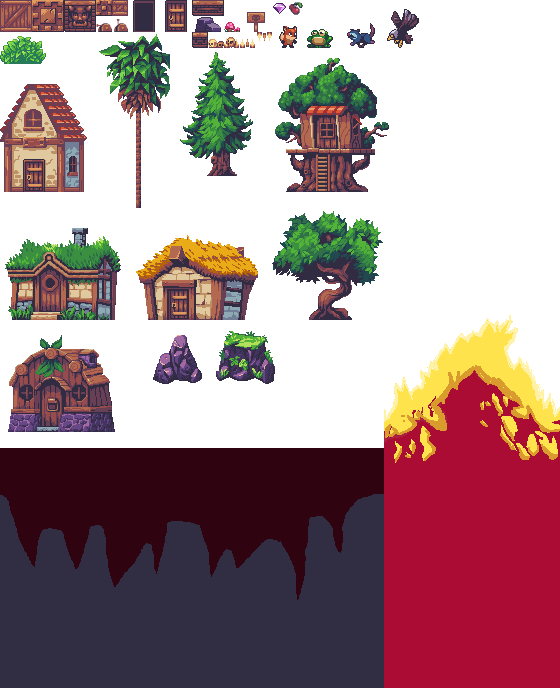
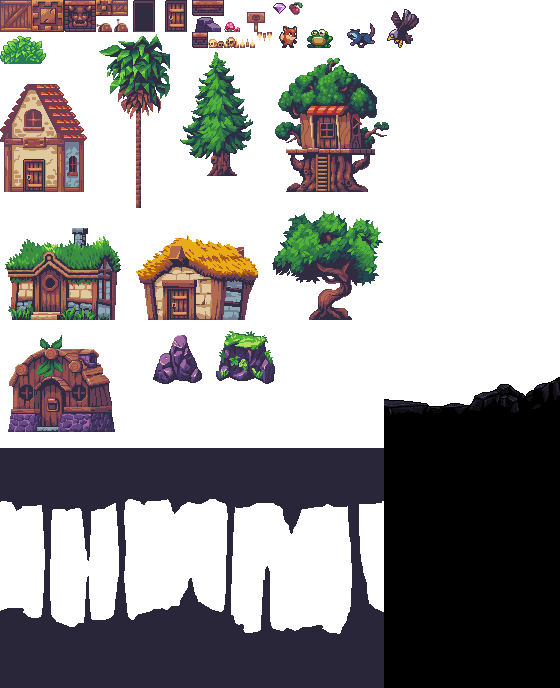
Adicinando o style sheet do player e modificando o mapa

diff --git a/data/collisions.js b/data/collisions.js
@@ -1,38 +1,38 @@
 const collisions = [
-  [0,0,0,0,0,0,0,0,0,0,0,0,0,0,0,0,0,0,0,0,0,0,0,0,0,0,0,0,0,0,0,0,0,0,0,0,0,0,0,0,0,0,0,0,0,0,0,0,0,0,0,0,0,0,0,0,0,0,0,0,0,0,0,0,0,0,0,0,0,0,0,0,0,0,0,0,0,0,0,0,0,0,0,0,0,0,0,0,0,0,0,0,0,0,0,0,0,0,0,0,0,0,0,0,0,0,0,0,0,0,0,0,0,0,0,0,0,0,0,0,0,1,0,0,0,0,0,0,0,0],
-  [0,0,0,0,0,0,0,0,0,0,0,0,0,0,0,0,0,0,0,0,0,0,0,0,0,0,0,0,0,0,0,0,0,0,0,0,0,0,0,0,0,0,0,0,0,0,0,0,0,0,0,0,0,0,0,0,0,0,0,0,0,0,0,0,0,0,0,0,0,0,0,0,0,0,0,0,0,0,0,0,0,0,0,0,0,0,0,0,0,0,0,0,0,0,0,0,0,0,0,0,0,0,0,0,0,0,0,0,0,0,0,0,0,0,0,0,0,0,0,0,0,1,0,0,0,0,0,0,0,0],
-  [0,0,0,0,0,0,0,0,0,0,0,0,0,0,0,0,0,0,0,0,0,0,0,0,0,0,0,0,0,0,0,0,0,0,0,0,0,0,0,0,0,0,0,0,0,0,0,0,0,0,0,0,0,0,0,0,0,0,0,0,0,0,0,0,0,0,0,0,0,0,0,0,0,0,0,0,0,0,0,0,0,0,0,0,0,0,0,0,0,0,0,0,0,0,0,0,0,0,0,0,0,0,0,0,0,0,0,0,0,0,0,0,0,0,0,0,0,0,0,0,0,1,0,0,0,0,0,0,0,0],
-  [0,0,0,0,0,0,0,0,0,0,0,0,0,0,0,0,0,0,0,0,0,0,0,0,0,0,0,0,0,0,0,0,0,0,0,0,0,0,0,0,0,0,0,0,0,0,0,0,0,0,0,0,0,0,0,0,0,0,0,0,0,0,0,0,0,0,0,0,0,0,0,0,0,0,0,0,0,0,0,0,0,0,0,0,0,0,0,0,0,0,0,0,0,0,0,0,0,0,0,0,0,0,0,0,0,0,0,0,0,0,0,0,0,0,0,0,0,0,0,0,0,1,0,0,0,0,0,0,0,0],
-  [0,0,0,0,0,0,0,0,0,0,0,0,0,0,0,0,0,0,0,0,0,0,0,0,0,0,0,0,0,0,0,0,0,0,0,0,0,0,0,0,0,0,0,0,0,0,0,0,0,0,0,0,0,0,0,0,0,0,0,0,0,0,0,0,0,0,0,0,0,0,0,0,0,0,0,0,0,0,0,0,0,0,0,0,0,0,0,0,0,0,0,0,0,0,0,0,0,0,0,0,0,0,0,0,0,0,0,0,0,0,0,0,0,0,0,0,0,0,0,0,0,1,0,0,0,0,0,0,0,0],
-  [0,0,0,0,0,0,0,0,0,0,0,0,0,0,0,0,0,0,0,0,0,0,0,0,0,0,0,0,0,0,0,0,0,0,0,0,0,0,0,0,0,0,0,0,0,0,0,0,0,0,0,0,0,0,0,0,0,0,0,0,0,0,1,1,1,1,1,1,0,0,0,0,0,0,0,0,0,0,0,0,0,0,0,0,0,0,0,0,0,0,0,0,0,0,0,0,0,0,0,0,0,0,0,0,0,0,0,0,0,0,0,0,0,0,0,0,0,0,0,0,0,1,0,0,0,0,0,0,0,0],
-  [0,0,0,0,0,0,0,0,0,0,0,0,0,0,0,0,0,0,0,0,0,0,0,0,0,0,0,0,0,0,0,0,0,0,0,0,0,0,0,0,0,0,0,0,0,0,0,0,0,0,0,0,0,0,0,0,0,0,0,0,0,0,0,0,0,0,0,0,0,0,0,0,0,2,2,2,1,1,1,1,1,1,0,0,0,0,0,0,0,0,0,0,0,0,0,0,0,0,0,0,0,0,0,0,0,0,0,0,0,0,0,0,0,0,0,0,0,0,0,0,0,1,0,0,0,0,0,0,0,0],
-  [0,0,0,0,0,0,0,0,0,0,0,0,0,0,0,0,0,1,1,1,1,1,0,0,0,0,0,0,0,0,0,0,0,0,0,0,0,0,0,0,0,0,0,0,0,0,0,0,0,0,0,0,0,0,0,0,0,0,0,0,0,0,0,0,0,0,0,0,0,0,0,0,0,0,0,0,1,0,0,0,0,1,0,0,0,0,0,0,0,0,0,0,0,0,0,0,0,0,0,0,0,0,0,0,0,0,0,0,0,0,0,0,0,0,0,0,0,0,0,0,0,1,0,0,0,0,0,0,0,0],
-  [0,0,0,0,0,0,0,0,0,0,0,0,0,0,0,0,0,0,0,0,0,0,0,0,0,0,0,0,0,0,0,0,0,0,0,0,0,0,0,0,0,0,0,0,0,0,0,0,0,0,0,0,0,0,0,0,0,0,0,0,0,0,0,0,0,0,0,0,0,0,0,0,0,0,0,0,1,0,0,0,0,1,0,0,0,0,0,0,0,0,0,0,0,0,0,0,0,0,0,0,0,0,0,0,0,0,0,0,0,0,0,0,0,0,0,0,0,0,0,0,0,1,0,0,0,0,0,0,0,0],
-  [0,0,0,0,0,0,0,0,0,0,0,0,0,0,0,0,0,0,0,0,0,0,0,0,0,0,0,0,0,0,0,0,0,0,0,0,0,0,0,0,0,0,0,0,0,0,0,0,0,0,0,0,0,0,0,0,0,1,1,1,1,1,1,1,0,0,0,0,0,0,0,0,0,0,0,0,1,1,0,0,0,0,1,1,1,1,0,0,0,0,0,0,0,0,0,0,0,0,0,0,0,0,0,0,0,0,0,0,0,0,0,0,0,0,0,0,0,0,0,0,0,1,0,0,0,0,0,0,0,0],
-  [0,0,0,0,0,0,0,0,0,0,0,0,0,0,0,0,0,0,0,0,0,0,0,0,0,0,0,0,0,0,0,0,0,0,0,0,0,0,0,0,0,0,0,0,0,0,0,0,0,0,0,0,0,0,0,0,0,0,0,0,0,0,0,0,0,0,0,0,0,0,0,0,0,0,0,0,0,1,0,0,0,0,0,0,0,1,0,0,0,0,0,0,0,0,0,0,0,0,0,0,0,0,0,0,0,0,0,0,0,0,0,0,0,0,0,0,0,0,0,0,0,1,0,0,0,0,0,0,0,0],
-  [0,0,0,0,0,0,0,0,1,1,1,1,1,1,1,1,0,0,0,0,0,0,0,0,0,0,0,0,0,0,0,0,0,0,0,0,0,0,0,0,0,0,0,0,0,0,0,0,0,0,0,0,0,0,0,0,0,0,0,0,0,0,0,0,0,0,0,0,0,0,0,0,0,0,0,0,0,0,1,1,0,0,0,0,0,1,0,0,0,0,0,0,0,0,0,0,0,0,0,0,0,0,0,0,0,0,0,0,0,0,0,0,0,0,0,0,0,0,0,0,0,1,0,0,0,0,0,0,0,0],
-  [0,0,0,0,0,0,0,0,0,0,0,0,0,0,0,0,0,0,0,0,0,0,0,0,0,0,0,0,0,0,0,0,0,0,0,0,0,0,0,0,0,0,0,0,0,0,0,0,0,0,0,0,0,0,0,0,0,0,0,0,0,0,0,0,0,0,0,0,0,0,0,0,0,0,0,0,0,0,0,1,0,0,0,0,0,0,1,1,1,1,1,0,0,0,0,0,0,0,0,0,0,0,0,0,0,0,0,0,0,0,0,0,0,0,0,0,0,0,0,0,0,1,0,0,0,0,0,0,0,0],
-  [0,0,0,0,0,0,0,0,0,0,0,0,0,0,0,0,0,0,0,0,1,1,1,1,0,0,0,0,0,0,0,0,0,0,0,0,0,0,0,0,0,0,0,0,0,0,0,0,0,0,0,0,0,0,0,0,0,0,0,0,0,0,0,0,0,0,1,1,1,0,0,0,0,0,0,0,0,0,0,1,0,0,0,0,0,0,0,0,0,0,1,0,0,0,0,0,0,0,0,0,0,0,0,0,0,0,0,0,0,0,0,0,0,0,0,0,0,0,0,0,0,1,0,0,0,0,0,0,0,0],
-  [0,0,0,0,0,0,0,0,0,0,0,0,0,0,0,0,0,0,0,0,0,0,0,0,0,0,0,0,0,0,0,0,0,0,0,0,0,0,0,0,0,0,0,0,0,0,0,0,0,0,0,0,0,0,0,0,0,0,0,0,0,0,0,0,0,0,0,0,0,0,0,0,0,0,0,0,0,0,0,1,0,0,0,0,0,0,0,0,0,0,1,0,0,0,0,0,0,0,0,0,0,0,0,0,0,0,0,0,0,0,0,0,0,0,0,0,0,0,0,0,0,1,0,0,0,0,0,0,0,0],
-  [0,0,0,0,0,0,0,0,0,0,0,0,0,0,0,0,0,0,0,0,0,0,0,0,0,0,0,0,0,0,0,1,1,1,1,1,1,1,1,1,1,1,1,1,1,0,0,0,0,0,0,1,1,1,1,1,1,1,1,1,1,0,0,0,0,0,0,0,0,0,0,0,0,0,0,0,0,0,0,1,0,0,0,0,0,0,0,0,0,0,0,1,1,1,1,1,1,1,1,1,1,1,1,1,1,1,1,1,1,1,1,1,1,1,1,1,1,1,1,1,1,1,0,0,0,0,0,0,0,0],
+  [1,1,1,1,1,1,1,1,1,1,1,1,1,1,1,1,1,1,1,1,1,1,1,1,1,1,1,1,1,1,1,1,1,1,1,1,1,1,1,1,1,1,1,1,1,1,1,1,1,1,1,1,1,1,1,1,1,1,1,1,1,1,1,1,1,1,1,1,1,1,1,1,1,1,1,1,1,1,1,1,1,1,1,1,1,1,1,1,1,1,1,1,1,1,1,1,1,1,1,1,1,1,1,1,1,1,1,1,1,1,1,1,1,1,1,1,1,1,1,1,1,1,1,1,1,1,1,1,1,1],
+  [1,0,0,0,0,0,0,0,0,0,0,0,0,0,0,0,0,0,0,0,0,0,0,0,0,0,0,0,0,0,0,0,0,0,0,0,0,0,0,0,0,0,0,0,0,0,0,0,0,0,0,0,0,0,0,0,0,0,0,0,0,0,0,0,0,0,0,0,0,0,0,0,0,0,0,0,0,0,0,0,0,0,0,0,0,0,0,0,0,0,0,0,0,0,0,0,0,0,0,0,0,0,0,0,0,0,0,0,0,0,0,0,0,0,0,0,0,0,0,0,0,1,0,0,0,0,0,0,0,0],
+  [1,0,0,0,0,0,0,0,0,0,0,0,0,0,0,0,0,0,0,0,0,0,0,0,0,0,0,0,0,0,0,0,0,0,0,0,0,0,0,0,0,0,0,0,0,0,0,0,0,0,0,0,0,0,0,0,0,0,0,0,0,0,0,0,0,0,0,0,0,0,0,0,0,0,0,0,0,0,0,0,0,0,0,0,0,0,0,0,0,0,0,0,0,0,0,0,0,0,0,0,0,0,0,0,0,0,0,0,0,0,0,0,0,0,0,0,0,0,0,0,0,1,0,0,0,0,0,0,0,0],
+  [1,0,0,0,0,0,0,0,0,0,0,0,0,0,0,0,0,0,0,0,0,0,0,0,0,0,0,0,0,0,0,0,0,0,0,0,0,0,0,0,0,0,0,0,0,0,0,0,0,0,0,0,0,0,0,0,0,0,0,0,0,0,0,0,0,0,0,0,0,0,0,0,0,0,0,0,0,0,0,0,0,0,0,0,0,0,0,0,0,0,0,0,0,0,0,0,0,0,0,0,0,0,0,0,0,0,0,0,0,0,0,0,0,0,0,0,0,0,0,0,0,1,0,0,0,0,0,0,0,0],
+  [1,0,0,0,0,0,0,0,0,0,0,0,0,0,0,0,0,0,0,0,0,0,0,0,0,0,0,0,0,0,0,0,0,0,0,0,0,0,0,0,0,0,0,0,0,0,0,0,0,0,0,0,0,0,0,0,0,0,0,0,0,0,0,0,0,0,0,0,0,0,0,0,0,0,0,0,0,0,0,0,0,0,0,0,0,0,0,0,0,0,0,0,0,0,0,0,0,0,0,0,0,0,0,0,0,0,0,0,0,0,0,0,0,0,0,0,0,0,0,0,0,1,0,0,0,0,0,0,0,0],
+  [1,0,0,0,0,0,0,0,0,0,0,0,0,0,0,0,0,0,0,0,0,0,0,0,0,0,0,0,0,0,0,0,0,0,0,0,0,0,0,0,0,0,0,0,0,0,0,0,0,0,0,0,0,0,0,0,0,0,0,0,0,0,1,1,1,1,1,1,0,0,0,0,0,0,0,0,0,0,0,0,0,0,0,0,0,0,0,0,0,0,0,0,0,0,0,0,0,0,0,0,0,0,0,0,0,0,0,0,0,0,0,0,0,0,0,0,0,0,0,0,0,1,0,0,0,0,0,0,0,0],
+  [1,0,0,0,0,0,0,0,0,0,0,0,0,0,0,0,0,0,0,0,0,0,0,0,0,0,0,0,0,0,0,0,0,0,0,0,0,0,0,0,0,0,0,0,0,0,0,0,0,0,0,0,0,0,0,0,0,0,0,0,0,0,0,0,0,0,0,0,0,0,0,0,0,2,2,2,1,1,1,1,1,1,0,0,0,0,0,0,0,0,0,0,0,0,0,0,0,0,0,0,0,0,0,0,0,0,0,0,0,0,0,0,0,0,0,0,0,0,0,0,0,1,0,0,0,0,0,0,0,0],
+  [1,0,0,0,0,0,0,0,0,0,0,0,0,0,0,0,0,1,1,1,1,1,0,0,0,0,0,0,0,0,0,0,0,0,0,0,0,0,0,0,0,0,0,0,0,0,0,0,0,0,0,0,0,0,0,0,0,0,0,0,0,0,0,0,0,0,0,0,0,0,0,0,0,0,0,0,1,0,0,0,0,1,0,0,0,0,0,0,0,0,0,0,0,0,0,0,0,0,0,0,0,0,0,0,0,0,0,0,0,0,0,0,0,0,0,0,0,0,0,0,0,1,0,0,0,0,0,0,0,0],
+  [1,0,0,0,0,0,0,0,0,0,0,0,0,0,0,0,0,0,0,0,0,0,0,0,0,0,0,0,0,0,0,0,0,0,0,0,0,0,0,0,0,0,0,0,0,0,0,0,0,0,0,0,0,0,0,0,0,0,0,0,0,0,0,0,0,0,0,0,0,0,0,0,0,0,0,0,1,0,0,0,0,1,0,0,0,0,0,0,0,0,0,0,0,0,0,0,0,0,0,0,0,0,0,0,0,0,0,0,0,0,0,0,0,0,0,0,0,0,0,0,0,1,0,0,0,0,0,0,0,0],
+  [1,0,0,0,0,0,0,0,0,0,0,0,0,0,0,0,0,0,0,0,0,0,0,0,0,0,0,0,0,0,0,0,0,0,0,0,0,0,0,0,0,0,0,0,0,0,0,0,0,0,0,0,0,0,0,0,0,1,1,1,1,1,1,1,0,0,0,0,0,0,0,0,0,0,0,0,1,1,0,0,0,0,1,1,1,1,0,0,0,0,0,0,0,0,0,0,0,0,0,0,0,0,0,0,0,0,0,0,0,0,0,0,0,0,0,0,0,0,0,0,0,1,0,0,0,0,0,0,0,0],
+  [1,0,0,0,0,0,0,0,0,0,0,0,0,0,0,0,0,0,0,0,0,0,0,0,0,0,0,0,0,0,0,0,0,0,0,0,0,0,0,0,0,0,0,0,0,0,0,0,0,0,0,0,0,0,0,0,0,0,0,0,0,0,0,0,0,0,0,0,0,0,0,0,0,0,0,0,0,1,0,0,0,0,0,0,0,1,0,0,0,0,0,0,0,0,0,0,0,0,0,0,0,0,0,0,0,0,0,0,0,0,0,0,0,0,0,0,0,0,0,0,0,1,0,0,0,0,0,0,0,0],
+  [1,0,0,0,0,0,0,0,1,1,1,1,1,1,1,1,0,0,0,0,0,0,0,0,0,0,0,0,0,0,0,0,0,0,0,0,0,0,0,0,0,0,0,0,0,0,0,0,0,0,0,0,0,0,0,0,0,0,0,0,0,0,0,0,0,0,0,0,0,0,0,0,0,0,0,0,0,0,1,1,0,0,0,0,0,1,0,0,0,0,0,0,0,0,0,0,0,0,0,0,0,0,0,0,0,0,0,0,0,0,0,0,0,0,0,0,0,0,0,0,0,1,0,0,0,0,0,0,0,0],
+  [1,0,0,0,0,0,0,0,0,0,0,0,0,0,0,0,0,0,0,0,0,0,0,0,0,0,0,0,0,0,0,0,0,0,0,0,0,0,0,0,0,0,0,0,0,0,0,0,0,0,0,0,0,0,0,0,0,0,0,0,0,0,0,0,0,0,0,0,0,0,0,0,0,0,0,0,0,0,0,1,0,0,0,0,0,0,1,1,1,1,1,0,0,0,0,0,0,0,0,0,0,0,0,0,0,0,0,0,0,0,0,0,0,0,0,0,0,0,0,0,0,1,0,0,0,0,0,0,0,0],
+  [1,0,0,0,0,0,0,0,0,0,0,0,0,0,0,0,0,0,0,0,1,1,1,1,0,0,0,0,0,0,0,0,0,0,0,0,0,0,0,0,0,0,0,0,0,0,0,0,0,0,0,0,0,0,0,0,0,0,0,0,0,0,0,0,0,0,1,1,1,0,0,0,0,0,0,0,0,0,0,1,0,0,0,0,0,0,0,0,0,0,1,0,0,0,0,0,0,0,0,0,0,0,0,0,0,0,0,0,0,0,0,0,0,0,0,0,0,0,0,0,0,1,0,0,0,0,0,0,0,0],
+  [1,0,0,0,0,0,0,0,0,0,0,0,0,0,0,0,0,0,0,0,0,0,0,0,0,0,0,0,0,0,0,0,0,0,0,0,0,0,0,0,0,0,0,0,0,0,0,0,0,0,0,0,0,0,0,0,0,0,0,0,0,0,0,0,0,0,0,0,0,0,0,0,0,0,0,0,0,0,0,1,0,0,0,0,0,0,0,0,0,0,1,0,0,0,0,0,0,0,0,0,0,0,0,0,0,0,0,0,0,0,0,0,0,0,0,0,0,0,0,0,0,1,0,0,0,0,0,0,0,0],
+  [1,0,0,0,0,0,0,0,0,0,0,0,0,0,0,0,0,0,0,0,0,0,0,0,0,0,0,0,0,0,0,1,1,1,1,1,1,1,1,1,1,1,1,1,1,0,0,0,0,0,0,1,1,1,1,1,1,1,1,1,1,0,0,0,0,0,0,0,0,0,0,0,0,0,0,0,0,0,0,1,0,0,0,0,0,0,0,0,0,0,0,1,1,1,1,1,1,1,1,1,1,1,1,1,1,1,1,1,1,1,1,1,1,1,1,1,1,1,1,1,1,1,0,0,0,0,0,0,0,0],
   [1,1,1,1,1,1,1,1,1,1,1,1,1,0,0,0,0,0,0,0,0,0,0,0,0,0,0,0,0,0,0,1,0,0,0,0,0,0,0,0,0,0,0,0,1,0,0,0,0,0,0,1,0,0,0,0,0,0,0,0,1,0,0,0,0,0,0,0,0,0,0,0,1,1,0,0,0,0,0,1,1,1,1,1,1,0,0,0,0,0,0,0,0,0,0,0,0,0,0,0,0,0,0,0,0,0,0,0,0,0,0,0,0,0,0,0,0,0,0,0,0,0,0,0,0,0,0,0,0,0],
-  [0,0,0,0,0,0,0,0,0,0,0,0,0,1,1,1,1,1,1,1,1,1,1,1,1,1,1,1,1,1,1,0,0,0,0,0,0,0,0,0,0,0,0,0,1,0,0,0,0,0,0,1,0,0,0,0,0,0,0,0,1,0,0,0,0,0,0,0,0,0,0,0,1,1,0,0,0,0,0,0,0,0,0,0,1,0,0,0,0,0,0,0,0,0,0,0,0,0,0,0,0,0,0,0,0,0,0,0,0,0,0,0,0,0,0,0,0,0,0,0,0,0,0,0,0,0,0,0,0,0],
-  [0,0,0,0,0,0,0,0,0,0,0,0,0,0,0,0,0,0,0,0,0,0,0,0,0,0,0,0,0,0,0,0,0,0,0,0,0,0,0,0,0,0,0,0,1,0,0,0,0,0,0,1,0,0,0,0,0,0,0,0,0,1,0,0,0,0,0,0,0,0,1,1,1,1,0,0,0,2,2,2,0,0,0,0,1,0,0,0,0,0,0,0,0,0,0,0,0,0,0,0,0,0,0,0,0,0,0,0,0,0,0,0,0,0,0,0,0,0,0,0,0,0,0,0,0,0,0,0,0,0],
-  [0,0,0,0,0,0,0,0,0,0,0,0,0,0,0,0,0,0,0,0,0,0,0,0,0,0,0,0,0,0,0,0,0,0,0,0,0,0,0,0,0,0,0,0,1,0,0,0,0,0,0,1,0,0,0,0,0,0,0,0,0,0,1,1,1,1,1,1,1,1,0,0,0,1,0,0,0,0,0,0,1,1,1,1,1,0,0,0,0,0,0,0,0,0,0,0,0,0,0,0,0,0,0,0,0,0,0,0,0,0,0,0,0,0,0,0,0,0,0,0,0,0,0,0,0,0,0,0,0,0],
-  [0,0,0,0,0,0,0,0,0,0,0,0,0,0,0,0,0,0,0,0,0,0,0,0,0,0,0,0,0,0,0,0,0,0,0,0,0,0,0,0,0,0,0,0,1,0,0,0,0,0,0,1,0,0,0,0,0,0,0,0,0,0,0,0,0,0,0,0,0,0,0,0,0,1,2,2,0,0,0,0,1,0,0,0,0,0,0,0,0,0,0,0,0,0,0,0,0,0,0,0,0,0,0,0,0,0,0,0,0,0,0,0,0,0,0,0,0,0,0,0,0,0,0,0,0,0,0,0,0,0],
-  [0,0,0,0,0,0,0,0,0,0,0,0,0,0,0,0,0,0,0,0,0,0,0,0,0,0,0,0,0,0,0,0,0,0,0,0,0,0,0,0,0,0,0,0,1,0,0,0,0,0,0,1,0,0,0,0,0,0,0,0,0,0,0,0,0,0,0,0,0,0,0,0,0,1,0,0,0,0,0,0,1,0,0,0,0,0,0,0,0,0,0,0,0,0,0,0,0,0,0,0,0,0,0,0,0,0,0,0,0,0,0,0,0,0,0,0,0,0,0,0,0,0,0,0,0,0,0,0,0,0],
-  [0,0,0,0,0,0,0,0,0,0,0,0,0,0,0,0,0,0,0,0,0,0,0,0,0,0,0,0,0,0,0,0,0,0,0,0,0,0,0,0,0,0,0,0,1,0,0,0,0,0,0,1,0,0,0,0,0,0,0,0,0,0,0,0,0,0,0,0,0,0,0,0,0,1,0,0,0,0,0,0,1,0,0,0,0,0,0,0,0,0,0,0,0,0,0,0,0,0,0,0,0,0,0,0,0,0,0,0,0,0,0,0,0,0,0,0,0,0,0,0,0,0,0,0,0,0,0,0,0,0],
-  [0,0,0,0,0,0,0,0,0,0,0,0,0,0,0,0,0,0,0,0,0,0,0,0,0,0,0,0,0,0,0,0,0,0,0,0,0,0,0,0,0,0,0,0,1,0,0,0,0,0,0,1,0,0,0,0,0,0,0,0,0,0,0,0,0,0,0,0,0,0,0,0,0,1,2,2,0,0,0,0,1,0,0,0,0,0,0,0,0,0,0,0,0,0,0,0,0,0,0,0,0,0,0,0,0,0,0,0,0,0,0,0,0,0,0,0,0,0,0,0,0,0,0,0,0,0,0,0,0,0],
-  [0,0,0,0,0,0,0,0,0,0,0,0,0,0,0,0,0,0,0,0,0,0,0,0,0,0,0,0,0,0,0,0,0,0,0,0,0,0,0,0,0,0,0,0,1,0,0,0,0,2,2,1,0,0,0,0,0,0,0,0,0,0,0,0,0,0,0,0,0,0,0,0,0,1,0,0,0,0,0,0,1,0,0,0,0,0,0,0,0,0,0,0,0,0,0,0,0,0,0,0,0,0,0,0,0,0,0,0,0,0,0,0,0,0,0,0,0,0,0,0,0,0,0,0,0,0,0,0,0,0],
-  [0,0,0,0,0,0,0,0,0,0,0,0,0,0,0,0,0,0,0,0,0,0,0,0,0,0,0,0,0,0,0,0,0,0,0,0,0,0,0,0,0,0,0,0,1,0,0,0,0,0,0,1,0,0,0,0,0,0,0,0,0,0,0,0,0,0,0,0,0,0,0,0,0,1,0,0,0,0,0,0,1,0,0,0,0,0,0,0,0,0,0,0,0,0,0,0,0,0,0,0,0,0,0,0,0,0,0,0,0,0,0,0,0,0,0,0,0,0,0,0,0,0,0,0,0,0,0,0,0,0],
-  [0,0,0,0,0,0,0,0,0,0,0,0,0,0,0,0,0,0,0,0,0,0,0,0,0,0,0,0,0,0,0,0,0,0,0,0,0,0,0,0,0,0,0,1,0,0,0,0,0,0,0,1,0,0,0,0,0,0,0,0,0,0,0,0,0,0,0,0,0,0,0,0,0,1,2,2,0,0,0,0,1,0,0,0,0,0,0,0,0,0,0,0,0,0,0,0,0,0,0,0,0,0,0,0,0,0,0,0,0,0,0,0,0,0,0,0,0,0,0,0,0,0,0,0,0,0,0,0,0,0],
-  [0,0,0,0,0,0,0,0,0,0,0,0,0,0,0,0,0,0,0,0,0,0,0,0,0,0,0,0,0,0,0,0,0,0,0,0,0,0,0,0,0,0,1,0,0,0,0,0,0,0,0,1,0,0,0,0,0,0,0,0,0,0,0,0,0,0,0,0,0,0,0,0,0,1,0,0,0,0,0,0,1,0,0,0,0,0,0,0,0,0,0,0,0,0,0,0,0,0,0,0,0,0,0,0,0,0,0,0,0,0,0,0,0,0,0,0,0,0,0,0,0,0,0,0,0,0,0,0,0,0],
-  [0,0,0,0,0,0,0,0,0,0,0,0,0,0,0,0,0,0,0,0,0,0,0,0,0,0,0,0,0,0,0,0,0,0,0,0,0,0,0,0,0,1,0,0,0,0,0,0,0,0,0,1,0,0,0,0,0,0,0,0,0,0,0,0,0,0,0,0,0,0,0,0,0,1,0,0,0,0,2,2,1,0,0,0,0,0,0,0,0,0,0,0,0,0,0,0,0,0,0,0,0,0,0,0,0,0,0,0,0,0,0,0,0,0,0,0,0,0,0,0,0,0,0,0,0,0,0,0,0,0],
-  [0,0,0,0,0,0,0,0,0,0,0,0,0,0,0,0,0,0,0,0,0,0,0,0,0,0,0,0,0,0,0,0,0,0,0,0,0,0,0,0,1,0,0,0,0,0,0,0,0,0,0,1,1,1,1,1,1,1,1,1,1,1,1,1,1,1,1,1,1,1,1,1,1,1,0,0,0,0,0,0,1,0,0,0,0,0,0,0,0,0,0,0,0,0,0,0,0,0,0,0,0,0,0,0,0,0,0,0,0,0,0,0,0,0,0,0,0,0,0,0,0,0,0,0,0,0,0,0,0,0],
-  [0,0,0,0,0,0,0,0,0,0,0,0,0,0,0,0,0,0,0,0,0,0,0,0,0,0,0,0,0,0,0,0,0,0,0,0,0,0,0,0,1,0,0,0,0,0,0,0,0,0,0,0,0,0,0,0,0,0,0,0,0,0,0,0,0,0,0,0,0,0,0,0,0,0,0,0,0,0,0,0,1,0,0,0,0,0,0,0,0,0,0,0,0,0,0,0,0,0,0,0,0,0,0,0,0,0,0,0,0,0,0,0,0,0,0,0,0,0,0,0,0,0,0,0,0,0,0,0,0,0],
-  [0,0,0,0,0,0,0,0,0,0,0,0,0,0,0,0,0,0,0,0,0,0,0,0,0,0,0,0,0,0,0,0,0,0,0,0,0,0,0,0,1,0,0,0,0,0,0,0,0,0,0,0,0,0,0,0,0,0,0,0,0,0,0,0,0,0,0,0,0,0,0,0,0,0,0,0,0,0,2,2,1,0,0,0,0,0,0,0,0,0,0,0,0,0,0,0,0,0,0,0,0,0,0,0,0,0,0,0,0,0,0,0,0,0,0,0,0,0,0,0,0,0,0,0,0,0,0,0,0,0],
-  [0,0,0,0,0,0,0,0,0,0,0,0,0,0,0,0,0,0,0,0,0,0,0,0,0,0,0,0,0,0,0,0,0,0,0,0,0,0,0,0,1,0,0,0,0,0,0,0,0,0,0,0,0,0,0,0,0,0,0,0,0,0,0,0,0,0,0,0,0,0,0,0,0,0,0,0,0,0,0,0,1,0,0,0,0,0,0,0,0,0,0,0,0,0,0,0,0,0,0,0,0,0,0,0,0,0,0,0,0,0,0,0,0,0,0,0,0,0,0,0,0,0,0,0,0,0,0,0,0,0],
-  [0,0,0,0,0,0,0,0,0,0,0,0,0,0,0,0,0,0,0,0,0,0,0,0,0,0,0,0,0,0,0,0,0,0,0,0,0,0,0,0,1,0,0,0,0,0,0,0,0,0,0,0,0,0,0,0,0,0,0,0,0,0,0,0,0,0,0,0,0,0,0,0,0,0,0,0,0,0,0,0,1,0,0,0,0,0,0,0,0,0,0,0,0,0,0,0,0,0,0,0,0,0,0,0,0,0,0,0,0,0,0,0,0,0,0,0,0,0,0,0,0,0,0,0,0,0,0,0,0,0],
-  [0,0,0,0,0,0,0,0,0,0,0,0,0,0,0,0,0,0,0,0,0,0,0,0,0,0,0,0,0,0,0,0,0,0,0,0,0,0,0,0,0,1,0,0,0,0,0,0,0,0,0,0,0,0,0,0,0,0,0,0,0,0,0,0,0,0,0,0,0,0,0,0,0,0,0,0,0,0,0,0,1,0,0,0,0,0,0,0,0,0,0,0,0,0,0,0,0,0,0,0,0,0,0,0,0,0,0,0,0,0,0,0,0,0,0,0,0,0,0,0,0,0,0,0,0,0,0,0,0,0],
-  [0,0,0,0,0,0,0,0,0,0,0,0,0,0,0,0,0,0,0,0,0,0,0,0,0,0,0,0,0,0,0,0,0,0,0,0,0,0,0,0,0,0,1,1,1,1,1,1,1,1,1,1,1,1,1,1,1,1,1,1,1,1,1,1,1,1,1,1,1,1,1,1,1,1,1,1,1,1,1,1,1,0,0,0,0,0,0,0,0,0,0,0,0,0,0,0,0,0,0,0,0,0,0,0,0,0,0,0,0,0,0,0,0,0,0,0,0,0,0,0,0,0,0,0,0,0,0,0,0,0]
+  [1,0,0,0,0,0,0,0,0,0,0,0,0,1,1,1,1,1,1,1,1,1,1,1,1,1,1,1,1,1,1,0,0,0,0,0,0,0,0,0,0,0,0,0,1,0,0,0,0,0,0,1,0,0,0,0,0,0,0,0,1,0,0,0,0,0,0,0,0,0,0,0,1,1,0,0,0,0,0,0,0,0,0,0,1,0,0,0,0,0,0,0,0,0,0,0,0,0,0,0,0,0,0,0,0,0,0,0,0,0,0,0,0,0,0,0,0,0,0,0,0,0,0,0,0,0,0,0,0,0],
+  [1,0,0,0,0,0,0,0,0,0,0,0,0,0,0,0,0,0,0,0,0,0,0,0,0,0,0,0,0,0,0,0,0,0,0,0,0,0,0,0,0,0,0,0,1,0,0,0,0,0,0,1,0,0,0,0,0,0,0,0,0,1,0,0,0,0,0,0,0,0,1,1,1,1,0,0,0,2,2,2,0,0,0,0,1,0,0,0,0,0,0,0,0,0,0,0,0,0,0,0,0,0,0,0,0,0,0,0,0,0,0,0,0,0,0,0,0,0,0,0,0,0,0,0,0,0,0,0,0,0],
+  [1,0,0,0,0,0,0,0,0,0,0,0,0,0,0,0,0,0,0,0,0,0,0,0,0,0,0,0,0,0,0,0,0,0,0,0,0,0,0,0,0,0,0,0,1,0,0,0,0,0,0,1,0,0,0,0,0,0,0,0,0,0,1,1,1,1,1,1,1,1,0,0,0,1,0,0,0,0,0,0,1,1,1,1,1,0,0,0,0,0,0,0,0,0,0,0,0,0,0,0,0,0,0,0,0,0,0,0,0,0,0,0,0,0,0,0,0,0,0,0,0,0,0,0,0,0,0,0,0,0],
+  [1,0,0,0,0,0,0,0,0,0,0,0,0,0,0,0,0,0,0,0,0,0,0,0,0,0,0,0,0,0,0,0,0,0,0,0,0,0,0,0,0,0,0,0,1,0,0,0,0,0,0,1,0,0,0,0,0,0,0,0,0,0,0,0,0,0,0,0,0,0,0,0,0,1,2,2,0,0,0,0,1,0,0,0,0,0,0,0,0,0,0,0,0,0,0,0,0,0,0,0,0,0,0,0,0,0,0,0,0,0,0,0,0,0,0,0,0,0,0,0,0,0,0,0,0,0,0,0,0,0],
+  [1,0,0,0,0,0,0,0,0,0,0,0,0,0,0,0,0,0,0,0,0,0,0,0,0,0,0,0,0,0,0,0,0,0,0,0,0,0,0,0,0,0,0,0,1,0,0,0,0,0,0,1,0,0,0,0,0,0,0,0,0,0,0,0,0,0,0,0,0,0,0,0,0,1,0,0,0,0,0,0,1,0,0,0,0,0,0,0,0,0,0,0,0,0,0,0,0,0,0,0,0,0,0,0,0,0,0,0,0,0,0,0,0,0,0,0,0,0,0,0,0,0,0,0,0,0,0,0,0,0],
+  [1,0,0,0,0,0,0,0,0,0,0,0,0,0,0,0,0,0,0,0,0,0,0,0,0,0,0,0,0,0,0,0,0,0,0,0,0,0,0,0,0,0,0,0,1,0,0,0,0,0,0,1,0,0,0,0,0,0,0,0,0,0,0,0,0,0,0,0,0,0,0,0,0,1,0,0,0,0,0,0,1,0,0,0,0,0,0,0,0,0,0,0,0,0,0,0,0,0,0,0,0,0,0,0,0,0,0,0,0,0,0,0,0,0,0,0,0,0,0,0,0,0,0,0,0,0,0,0,0,0],
+  [1,0,0,0,0,0,0,0,0,0,0,0,0,0,0,0,0,0,0,0,0,0,0,0,0,0,0,0,0,0,0,0,0,0,0,0,0,0,0,0,0,0,0,0,1,0,0,0,0,0,0,1,0,0,0,0,0,0,0,0,0,0,0,0,0,0,0,0,0,0,0,0,0,1,2,2,0,0,0,0,1,0,0,0,0,0,0,0,0,0,0,0,0,0,0,0,0,0,0,0,0,0,0,0,0,0,0,0,0,0,0,0,0,0,0,0,0,0,0,0,0,0,0,0,0,0,0,0,0,0],
+  [1,0,0,0,0,0,0,0,0,0,0,0,0,0,0,0,0,0,0,0,0,0,0,0,0,0,0,0,0,0,0,0,0,0,0,0,0,0,0,0,0,0,0,0,1,0,0,0,0,2,2,1,0,0,0,0,0,0,0,0,0,0,0,0,0,0,0,0,0,0,0,0,0,1,0,0,0,0,0,0,1,0,0,0,0,0,0,0,0,0,0,0,0,0,0,0,0,0,0,0,0,0,0,0,0,0,0,0,0,0,0,0,0,0,0,0,0,0,0,0,0,0,0,0,0,0,0,0,0,0],
+  [1,0,0,0,0,0,0,0,0,0,0,0,0,0,0,0,0,0,0,0,0,0,0,0,0,0,0,0,0,0,0,0,0,0,0,0,0,0,0,0,0,0,0,0,1,0,0,0,0,0,0,1,0,0,0,0,0,0,0,0,0,0,0,0,0,0,0,0,0,0,0,0,0,1,0,0,0,0,0,0,1,0,0,0,0,0,0,0,0,0,0,0,0,0,0,0,0,0,0,0,0,0,0,0,0,0,0,0,0,0,0,0,0,0,0,0,0,0,0,0,0,0,0,0,0,0,0,0,0,0],
+  [1,0,0,0,0,0,0,0,0,0,0,0,0,0,0,0,0,0,0,0,0,0,0,0,0,0,0,0,0,0,0,0,0,0,0,0,0,0,0,0,0,0,0,1,0,0,0,0,0,0,0,1,0,0,0,0,0,0,0,0,0,0,0,0,0,0,0,0,0,0,0,0,0,1,2,2,0,0,0,0,1,0,0,0,0,0,0,0,0,0,0,0,0,0,0,0,0,0,0,0,0,0,0,0,0,0,0,0,0,0,0,0,0,0,0,0,0,0,0,0,0,0,0,0,0,0,0,0,0,0],
+  [1,0,0,0,0,0,0,0,0,0,0,0,0,0,0,0,0,0,0,0,0,0,0,0,0,0,0,0,0,0,0,0,0,0,0,0,0,0,0,0,0,0,1,0,0,0,0,0,0,0,0,1,0,0,0,0,0,0,0,0,0,0,0,0,0,0,0,0,0,0,0,0,0,1,0,0,0,0,0,0,1,0,0,0,0,0,0,0,0,0,0,0,0,0,0,0,0,0,0,0,0,0,0,0,0,0,0,0,0,0,0,0,0,0,0,0,0,0,0,0,0,0,0,0,0,0,0,0,0,0],
+  [1,0,0,0,0,0,0,0,0,0,0,0,0,0,0,0,0,0,0,0,0,0,0,0,0,0,0,0,0,0,0,0,0,0,0,0,0,0,0,0,0,1,0,0,0,0,0,0,0,0,0,1,0,0,0,0,0,0,0,0,0,0,0,0,0,0,0,0,0,0,0,0,0,1,0,0,0,0,2,2,1,0,0,0,0,0,0,0,0,0,0,0,0,0,0,0,0,0,0,0,0,0,0,0,0,0,0,0,0,0,0,0,0,0,0,0,0,0,0,0,0,0,0,0,0,0,0,0,0,0],
+  [1,0,0,0,0,0,0,0,0,0,0,0,0,0,0,0,0,0,0,0,0,0,0,0,0,0,0,0,0,0,0,0,0,0,0,0,0,0,0,0,1,0,0,0,0,0,0,0,0,0,0,1,1,1,1,1,1,1,1,1,1,1,1,1,1,1,1,1,1,1,1,1,1,1,0,0,0,0,0,0,1,0,0,0,0,0,0,0,0,0,0,0,0,0,0,0,0,0,0,0,0,0,0,0,0,0,0,0,0,0,0,0,0,0,0,0,0,0,0,0,0,0,0,0,0,0,0,0,0,0],
+  [1,0,0,0,0,0,0,0,0,0,0,0,0,0,0,0,0,0,0,0,0,0,0,0,0,0,0,0,0,0,0,0,0,0,0,0,0,0,0,0,1,0,0,0,0,0,0,0,0,0,0,0,0,0,0,0,0,0,0,0,0,0,0,0,0,0,0,0,0,0,0,0,0,0,0,0,0,0,0,0,1,0,0,0,0,0,0,0,0,0,0,0,0,0,0,0,0,0,0,0,0,0,0,0,0,0,0,0,0,0,0,0,0,0,0,0,0,0,0,0,0,0,0,0,0,0,0,0,0,0],
+  [1,0,0,0,0,0,0,0,0,0,0,0,0,0,0,0,0,0,0,0,0,0,0,0,0,0,0,0,0,0,0,0,0,0,0,0,0,0,0,0,1,0,0,0,0,0,0,0,0,0,0,0,0,0,0,0,0,0,0,0,0,0,0,0,0,0,0,0,0,0,0,0,0,0,0,0,0,0,2,2,1,0,0,0,0,0,0,0,0,0,0,0,0,0,0,0,0,0,0,0,0,0,0,0,0,0,0,0,0,0,0,0,0,0,0,0,0,0,0,0,0,0,0,0,0,0,0,0,0,0],
+  [1,0,0,0,0,0,0,0,0,0,0,0,0,0,0,0,0,0,0,0,0,0,0,0,0,0,0,0,0,0,0,0,0,0,0,0,0,0,0,0,1,0,0,0,0,0,0,0,0,0,0,0,0,0,0,0,0,0,0,0,0,0,0,0,0,0,0,0,0,0,0,0,0,0,0,0,0,0,0,0,1,0,0,0,0,0,0,0,0,0,0,0,0,0,0,0,0,0,0,0,0,0,0,0,0,0,0,0,0,0,0,0,0,0,0,0,0,0,0,0,0,0,0,0,0,0,0,0,0,0],
+  [1,0,0,0,0,0,0,0,0,0,0,0,0,0,0,0,0,0,0,0,0,0,0,0,0,0,0,0,0,0,0,0,0,0,0,0,0,0,0,0,1,0,0,0,0,0,0,0,0,0,0,0,0,0,0,0,0,0,0,0,0,0,0,0,0,0,0,0,0,0,0,0,0,0,0,0,0,0,0,0,1,0,0,0,0,0,0,0,0,0,0,0,0,0,0,0,0,0,0,0,0,0,0,0,0,0,0,0,0,0,0,0,0,0,0,0,0,0,0,0,0,0,0,0,0,0,0,0,0,0],
+  [1,0,0,0,0,0,0,0,0,0,0,0,0,0,0,0,0,0,0,0,0,0,0,0,0,0,0,0,0,0,0,0,0,0,0,0,0,0,0,0,0,1,0,0,0,0,0,0,0,0,0,0,0,0,0,0,0,0,0,0,0,0,0,0,0,0,0,0,0,0,0,0,0,0,0,0,0,0,0,0,1,0,0,0,0,0,0,0,0,0,0,0,0,0,0,0,0,0,0,0,0,0,0,0,0,0,0,0,0,0,0,0,0,0,0,0,0,0,0,0,0,0,0,0,0,0,0,0,0,0],
+  [1,0,0,0,0,0,0,0,0,0,0,0,0,0,0,0,0,0,0,0,0,0,0,0,0,0,0,0,0,0,0,0,0,0,0,0,0,0,0,0,0,0,1,1,1,1,1,1,1,1,1,1,1,1,1,1,1,1,1,1,1,1,1,1,1,1,1,1,1,1,1,1,1,1,1,1,1,1,1,1,1,0,0,0,0,0,0,0,0,0,0,0,0,0,0,0,0,0,0,0,0,0,0,0,0,0,0,0,0,0,0,0,0,0,0,0,0,0,0,0,0,0,0,0,0,0,0,0,0,0]
 ];

diff --git a/data/l_Decorations.js b/data/l_Decorations.js
@@ -5,16 +5,16 @@ const l_Decorations = [
    [0,0,0,0,0,0,0,0,0,0,0,0,0,0,0,0,0,0,0,0,0,0,0,0,0,0,0,0,0,0,0,0,0,0,0,0,0,0,0,0,0,0,0,0,0,0,0,0,0,0,0,0,0,0,0,0,0,0,0,0,0,0,0,0,0,0,0,0,0,0,0,0,0,0,0,0,0,0,0,0,0,0,0,0,0,0,0,0,0,0,0,0,0,0,0,0,0,0,0,0,0,0,0,0,0,0,0,0,0,0,0,0,0,0,0,0,0,0,0,0,0,0,0,0,0,0,0,0,0,0],
    [0,0,0,0,0,0,0,0,0,0,0,0,0,0,0,0,0,0,0,0,0,0,0,0,0,0,0,0,0,0,0,0,0,0,0,0,0,0,0,0,0,0,0,0,0,0,0,0,0,0,0,0,0,0,0,0,0,0,0,0,0,0,0,0,0,0,0,0,0,0,0,0,0,0,0,0,0,0,0,0,0,0,0,0,0,0,0,0,0,0,0,0,0,0,0,0,0,0,0,0,0,0,0,0,0,0,0,0,0,0,0,0,0,0,0,0,0,0,0,0,0,0,0,0,0,0,0,0,0,0],
    [0,0,0,0,0,0,0,0,0,0,0,0,0,0,0,0,0,0,0,0,0,0,0,0,0,0,0,0,0,0,0,0,0,0,0,0,0,0,0,0,0,0,0,0,0,0,0,0,0,0,0,0,0,0,0,0,0,0,0,0,0,0,0,0,0,0,0,0,0,0,0,0,0,0,0,0,0,0,0,0,0,0,0,0,0,0,0,0,0,0,0,0,0,0,0,0,0,0,0,0,0,0,0,0,0,0,0,0,0,0,0,0,0,0,0,0,0,0,0,0,0,0,0,0,0,0,0,0,0,0],
-   [0,0,0,0,0,0,0,0,0,0,0,0,0,0,0,0,0,0,0,0,0,0,0,0,0,0,0,0,0,0,0,0,0,0,0,0,0,0,0,0,0,0,0,0,0,0,0,0,0,0,0,0,0,0,0,0,0,0,0,0,0,0,0,0,0,0,0,0,0,0,0,0,0,0,0,0,0,0,0,0,0,0,0,0,0,0,0,0,0,0,0,0,0,0,0,0,123,124,125,126,127,128,129,130,0,0,0,0,0,0,0,0,0,0,0,0,0,0,0,0,0,0,0,0,0,0,0,0,0,0],
-   [0,0,0,0,0,0,0,0,0,0,0,0,0,0,0,0,0,0,0,0,0,0,0,0,0,0,0,0,0,0,0,0,0,0,0,0,0,0,0,0,0,0,0,0,0,0,0,0,0,0,0,0,0,0,0,0,0,0,0,0,0,0,0,0,0,0,0,0,0,0,0,0,0,0,0,0,0,0,0,0,0,0,0,0,0,0,0,0,0,0,0,0,0,0,0,0,158,159,160,161,162,163,164,165,0,0,0,0,0,0,0,0,0,0,0,0,0,0,0,0,0,0,0,0,0,0,0,0,0,0],
-   [0,0,0,0,0,0,0,0,0,0,0,0,0,0,0,0,0,0,0,0,0,0,0,0,0,0,0,0,0,0,0,0,0,0,0,0,0,0,0,0,0,0,0,0,0,0,0,0,0,0,0,0,0,0,0,0,0,0,0,0,0,0,0,0,0,0,0,0,0,0,0,0,0,0,0,0,0,0,0,0,0,0,0,0,0,0,0,0,0,0,0,0,0,0,0,0,193,194,195,196,197,198,199,200,0,0,0,0,0,0,0,0,0,0,0,0,0,0,0,0,0,0,0,0,0,0,0,0,0,0],
-   [176,177,178,179,180,181,0,0,0,0,0,0,0,0,0,0,0,0,0,0,0,0,0,0,0,0,0,0,0,0,0,0,0,0,0,0,0,0,0,0,0,0,0,0,0,0,0,0,0,0,0,0,0,0,0,0,0,0,0,0,0,0,0,0,0,0,0,0,0,0,0,0,0,0,0,0,0,0,0,0,0,0,0,0,0,0,0,0,0,0,0,0,0,0,0,0,228,229,230,231,232,233,234,235,0,0,0,0,0,0,0,0,0,0,0,0,0,0,0,0,0,0,0,0,0,0,0,0,0,0],
-   [211,212,213,214,215,216,0,0,0,0,0,0,0,0,0,0,0,0,0,0,0,0,0,0,0,0,0,0,0,0,0,0,0,0,0,0,0,0,0,0,0,0,0,0,0,0,0,0,0,0,0,0,0,0,0,0,0,0,0,0,0,0,0,0,0,0,0,0,0,0,0,0,0,0,0,0,0,0,0,0,0,0,0,0,0,0,0,0,0,0,0,0,0,0,0,0,263,264,265,266,267,268,269,270,0,0,0,0,0,0,0,0,0,0,0,0,0,0,0,0,0,0,0,0,0,0,0,0,0,0],
-   [246,247,248,249,250,251,0,0,0,0,0,0,0,0,0,0,0,0,0,0,0,0,0,0,0,0,0,0,0,0,0,0,0,0,0,0,0,0,0,0,0,0,0,0,0,0,0,0,0,0,0,0,0,0,0,0,0,0,0,0,0,0,0,0,0,0,0,0,0,0,0,0,0,0,0,0,0,0,0,0,0,0,0,0,0,0,0,0,0,0,0,0,0,0,0,0,298,299,300,301,302,303,304,305,0,0,0,0,0,0,0,0,0,0,0,0,0,0,0,0,0,0,0,0,0,0,0,0,0,0],
-   [281,282,283,284,285,286,0,0,0,0,0,0,0,0,0,0,0,0,0,0,0,0,0,0,0,0,0,0,0,0,0,0,0,0,0,0,0,0,0,0,0,0,0,0,0,0,0,0,0,0,0,0,0,0,0,0,0,0,0,0,0,0,0,0,0,0,0,0,0,0,0,0,0,0,0,0,0,0,0,0,0,0,0,0,0,0,0,0,0,0,0,0,0,0,0,0,333,334,335,336,337,338,339,340,0,0,0,0,0,0,0,0,0,0,0,0,0,0,0,0,0,0,0,0,0,0,0,0,0,0],
-   [316,317,318,319,320,321,0,0,0,0,0,0,0,0,0,0,0,0,0,0,0,0,0,0,0,0,0,0,0,0,0,0,0,0,0,0,0,0,0,0,0,0,0,16,17,0,0,0,0,0,0,0,0,0,0,0,0,0,0,0,0,0,0,0,0,0,0,0,0,0,0,0,0,0,0,0,0,0,0,0,0,0,0,0,0,0,0,0,0,0,0,0,0,0,0,0,368,369,370,371,372,373,374,375,0,0,0,0,0,0,0,0,0,0,0,0,0,0,0,0,0,0,0,0,0,0,0,0,0,0],
-   [351,352,353,354,355,356,0,0,0,0,0,0,0,0,0,0,0,0,0,0,0,0,0,0,0,0,0,0,0,0,0,0,0,0,0,0,0,0,0,0,0,0,0,51,52,0,0,0,0,0,0,0,0,0,0,0,0,0,0,0,0,0,0,0,0,0,0,0,0,0,0,0,0,0,0,0,0,0,0,0,0,0,0,0,0,0,0,0,0,0,0,0,0,0,0,0,403,404,405,406,407,408,409,410,0,0,0,0,0,0,0,0,0,0,0,0,0,0,0,0,0,0,0,0,0,0,0,0,0,0],
-   [386,387,388,389,390,391,0,0,0,0,0,0,0,0,0,0,0,0,0,0,0,0,0,0,0,648,0,0,0,0,0,0,0,0,0,0,0,0,0,0,0,0,0,0,0,0,0,0,0,0,0,0,0,0,0,0,0,0,0,0,0,0,0,0,0,0,0,0,0,0,0,0,0,0,0,0,0,0,0,0,0,0,0,0,0,0,0,0,0,0,0,0,0,0,0,0,0,0,0,0,0,0,0,0,0,0,0,0,0,0,0,0,0,0,0,0,0,0,0,0,0,0,0,0,0,0,0,0,0,0],
+   [0,0,0,0,0,0,0,0,0,0,0,0,0,0,0,0,0,0,0,0,0,0,0,0,0,0,0,0,0,0,0,0,0,0,0,0,0,0,0,0,0,0,0,0,0,0,0,0,0,0,0,0,0,0,0,0,0,0,0,0,0,0,0,0,0,0,0,0,0,0,0,0,0,0,0,0,0,0,0,0,0,0,0,0,0,0,0,0,0,0,0,0,0,0,0,0,0,0,0,0,0,0,0,0,0,0,0,0,0,0,0,0,0,0,0,0,0,0,0,0,0,0,0,0,0,0,0,0,0,0],
+   [0,0,0,0,0,0,0,0,0,0,0,0,0,0,0,0,0,0,0,0,0,0,0,0,0,0,0,0,0,0,0,0,0,0,0,0,0,0,0,0,0,0,0,0,0,0,0,0,0,0,0,0,0,0,0,0,0,0,0,0,0,0,0,0,0,0,0,0,0,0,0,0,0,0,0,0,0,0,0,0,0,0,0,0,0,0,0,0,0,0,0,0,0,0,0,0,0,0,0,0,0,0,0,0,0,0,0,0,0,0,0,0,0,0,0,0,0,0,0,0,0,0,0,0,0,0,0,0,0,0],
+   [0,0,0,0,0,0,0,0,0,0,0,0,0,0,0,0,0,0,0,0,0,0,0,0,0,0,0,0,0,0,0,0,0,0,0,0,0,0,0,0,0,0,0,0,0,0,0,0,0,0,0,0,0,0,0,0,0,0,0,0,0,0,0,0,0,0,0,0,0,0,0,0,0,0,0,0,0,0,0,0,0,0,0,0,0,0,0,0,0,0,0,0,0,0,0,0,0,0,0,0,0,0,0,0,0,0,0,0,0,0,0,0,0,0,0,0,0,0,0,0,0,0,0,0,0,0,0,0,0,0],
+   [0,0,0,0,0,0,0,0,0,0,0,0,0,0,0,0,0,0,0,0,0,0,0,0,0,0,0,0,0,0,0,0,0,0,0,0,0,0,0,0,0,0,0,0,0,0,0,0,0,0,0,0,0,0,0,0,0,0,0,0,0,0,0,0,0,0,0,0,0,0,0,0,0,0,0,0,0,0,0,0,0,0,0,0,0,0,0,0,0,0,0,0,0,0,0,0,0,0,0,0,0,0,0,0,0,0,0,0,0,0,0,0,0,0,0,0,0,0,0,0,0,0,0,0,0,0,0,0,0,0],
+   [0,0,0,0,0,0,0,0,0,0,0,0,0,0,0,0,0,0,0,0,0,0,0,0,0,0,0,0,0,0,0,0,0,0,0,0,0,0,0,0,0,0,0,0,0,0,0,0,0,0,0,0,0,0,0,0,0,0,0,0,0,0,0,0,0,0,0,0,0,0,0,0,0,0,0,0,0,0,0,0,0,0,0,0,0,0,0,0,0,0,0,0,0,0,0,0,0,0,0,0,0,0,0,0,0,0,0,0,0,0,0,0,0,0,0,0,0,0,0,0,0,0,0,0,0,0,0,0,0,0],
+   [0,0,0,0,0,0,0,0,0,0,0,0,0,0,0,0,0,0,0,0,0,0,0,0,0,0,0,0,0,0,0,0,0,0,0,0,0,0,0,0,0,0,0,0,0,0,0,0,0,0,0,0,0,0,0,0,0,0,0,0,0,0,0,0,0,0,0,0,0,0,0,0,0,0,0,0,0,0,0,0,0,0,0,0,0,0,0,0,0,0,0,0,0,0,0,0,0,0,0,0,0,0,0,0,0,0,0,0,0,0,0,0,0,0,0,0,0,0,0,0,0,0,0,0,0,0,0,0,0,0],
+   [0,0,0,0,0,0,0,0,0,0,0,0,0,0,0,0,0,0,0,0,0,0,0,0,0,0,0,0,0,0,0,0,0,0,0,0,0,0,0,0,0,0,0,0,0,0,0,0,0,0,0,0,0,0,0,0,0,0,0,0,0,0,0,0,0,0,0,0,0,0,0,0,0,0,0,0,0,0,0,0,0,0,0,0,0,0,0,0,0,0,0,0,0,0,0,0,0,0,0,0,0,0,0,0,0,0,0,0,0,0,0,0,0,0,0,0,0,0,0,0,0,0,0,0,0,0,0,0,0,0],
+   [0,0,0,0,0,0,0,0,0,0,0,0,0,0,0,0,0,0,0,0,0,0,0,0,0,0,0,0,0,0,0,0,0,0,0,0,0,0,0,0,0,0,0,16,17,0,0,0,0,0,0,0,0,0,0,0,0,0,0,0,0,0,0,0,0,0,0,0,0,0,0,0,0,0,0,0,0,0,0,0,0,0,0,0,0,0,0,0,0,0,0,0,0,0,0,0,0,0,0,0,0,0,0,0,0,0,0,0,0,0,0,0,0,0,0,0,0,0,0,0,0,0,0,0,0,0,0,0,0,0],
+   [0,0,0,0,0,0,0,0,0,0,0,0,0,0,0,0,0,0,0,0,0,0,0,0,0,0,0,0,0,0,0,0,0,0,0,0,0,0,0,0,0,0,0,51,52,0,0,0,0,0,0,0,0,0,0,0,0,0,0,0,0,0,0,0,0,0,0,0,0,0,0,0,0,0,0,0,0,0,0,0,0,0,0,0,0,0,0,0,0,0,0,0,0,0,0,0,0,0,0,0,0,0,0,0,0,0,0,0,0,0,0,0,0,0,0,0,0,0,0,0,0,0,0,0,0,0,0,0,0,0],
+   [0,0,0,0,0,0,0,0,0,0,0,0,0,0,0,0,0,0,0,0,0,0,0,0,0,648,0,0,0,0,0,0,0,0,0,0,0,0,0,0,0,0,0,0,0,0,0,0,0,0,0,0,0,0,0,0,0,0,0,0,0,0,0,0,0,0,0,0,0,0,0,0,0,0,0,0,0,0,0,0,0,0,0,0,0,0,0,0,0,0,0,0,0,0,0,0,0,0,0,0,0,0,0,0,0,0,0,0,0,0,0,0,0,0,0,0,0,0,0,0,0,0,0,0,0,0,0,0,0,0],
    [0,0,0,0,0,0,0,0,0,0,0,0,0,0,0,0,0,0,0,0,0,0,0,0,0,683,0,0,0,0,0,0,0,0,0,0,0,0,0,0,0,0,0,0,0,0,0,0,0,0,0,0,0,0,0,0,0,0,0,0,0,0,0,0,0,0,0,0,0,0,0,0,0,0,0,0,0,0,0,0,0,0,0,0,0,0,0,0,0,0,0,0,0,0,0,0,0,0,0,0,0,0,0,0,0,0,0,0,0,0,0,0,0,0,0,0,0,0,0,0,0,0,0,0,0,0,0,0,0,0],
    [0,0,0,0,0,0,0,0,0,0,0,0,0,0,0,0,0,0,0,0,0,0,0,0,0,0,0,0,0,0,0,0,0,0,0,0,0,0,0,0,0,0,0,0,0,0,0,0,0,0,0,0,0,0,0,0,0,0,0,0,0,0,0,0,0,0,0,0,0,0,0,0,0,0,0,0,0,0,0,0,0,0,0,0,0,0,0,0,0,0,0,0,0,0,0,0,0,0,0,0,0,0,0,0,0,0,0,0,0,0,0,0,0,0,0,0,0,0,0,0,0,0,0,0,0,0,0,0,0,0],
    [0,0,0,0,0,0,0,0,0,0,0,0,0,0,0,0,0,0,0,0,0,0,0,0,0,0,0,0,0,0,0,0,0,0,0,0,0,0,0,0,0,0,0,0,0,0,0,0,0,0,0,0,0,0,0,0,0,0,0,0,0,0,0,0,0,0,0,0,0,0,0,0,0,0,0,0,0,0,0,0,0,0,0,0,0,0,0,0,0,0,0,0,0,0,0,0,0,0,0,0,0,0,0,0,0,0,0,0,0,0,0,0,0,0,0,0,0,0,0,0,0,0,0,0,0,0,0,0,0,0],

diff --git a/classes/Player.js b/classes/Player.js
@@ -15,43 +15,43 @@ class Player {
     this.image.onload = () => {
       this.isImageLoaded = true
     }
-    this.image.src = './images/player.png'
+    this.image.src = './images/player1.png'
     this.elapsedTime = 0
     this.currentFrame = 0
     this.sprites = {
       idle: {
         x: 0,
-        y: 0,
-        width: 33,
-        height: 32,
+        y: 250,
+        width: 32,
+        height: 38,
         frames: 4,
       },
       run: {
-        x: 0,
-        y: 32,
-        width: 33,
-        height: 32,
+        x: 192,
+        y: 158,
+        width: 32,
+        height: 42,
         frames: 6,
       },
       jump: {
-        x: 0,
-        y: 32 * 5,
+        x: 32 * 7,
+        y: 32 * 9,
         width: 33,
-        height: 32,
+        height: 40,
         frames: 1,
       },
       fall: {
-        x: 33,
-        y: 32 * 5,
+        x: 32 * 8,
+        y: 32 * 9,
         width: 33,
-        height: 32,
+        height: 40,
         frames: 1,
       },
       roll: {
-        x: 0,
+        x: 32 * 9,
         y: 32 * 9,
         width: 33,
-        height: 32,
+        height: 38,
         frames: 4,
       },
     }

diff --git a/js/index.js b/js/index.js
@@ -280,8 +280,26 @@ function init() {
 
   oposums = [
     new Oposum({
+      x: 450,
+      y: 100,
+      width: 36,
+      height: 28,
+    }),
+    new Oposum({
+      x: 600,
+      y: 100,
+      width: 36,
+      height: 28,
+    }),
+    new Oposum({
       x: 650,
       y: 100,
+      width: 36,
+      height: 28,
+    }),
+    new Oposum({
+      x: 890,
+      y: 150,
       width: 36,
       height: 28,
     }),
